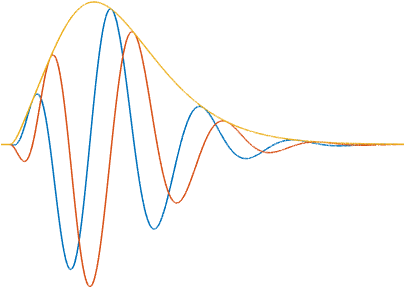
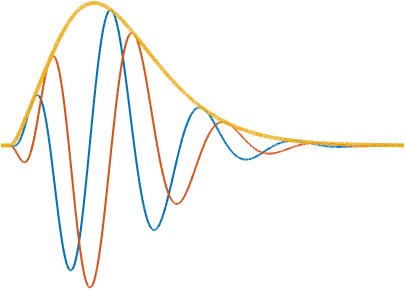
better line widths in Fig 1

diff --git a/figs/wavelets/gammatone.m b/figs/wavelets/gammatone.m
@@ -1,5 +1,5 @@
 nfo = 8;
-line_width = 1.5;
+line_width = 2;
 
 opts{1}.time.nFilters_per_octave = nfo;
 opts{1}.time.size = 2^19;
@@ -20,16 +20,27 @@ psi2_fts = display_bank(archs{2}.banks{1});
 psi1_ft = psi1_fts(:, 40);
 psi1_ift = ifftshift(ifft(psi1_ft));
 psi1_ift = psi1_ift((end/2) + (-300:1000));
-psi1 = [real(psi1_ift),imag(psi1_ift),abs(psi1_ift)];
+psi1 = [real(psi1_ift),imag(psi1_ift)];
+abspsi1 = abs(psi1_ift);
 
 psi2_ft = psi2_fts(:, 11);
 psi2_ift = ifftshift(ifft(psi2_ft));
 psi2_ift = psi2_ift((end/2) + (-3000:10000));
-psi2 = [real(psi2_ift),imag(psi2_ift),abs(psi2_ift)];
+psi2 = [real(psi2_ift),imag(psi2_ift)];
+abspsi2 = abs(psi2_ift);
 
+figure(1);
 plot(psi1, 'LineWidth', line_width)
 axis off
+hold on
+plot(abspsi1, 'LineWidth', 2 * line_width);
+hold off;
 export_fig -transparent gammatone_Q8.png
+
+figure(2);
 plot(psi2, 'LineWidth', line_width);
 axis off
+hold on
+plot(abspsi2, 'LineWidth', 2 * line_width);
+hold off;
 export_fig -transparent gammatone_Q1.png

diff --git a/paper/structureScene.tex b/paper/structureScene.tex
@@ -342,7 +342,6 @@ In short, early and late integration methods lie at opposite ends of the bias-ve
 Let $\mathbf{S}\boldsymbol{X}(\gamma,n)$ be a dataset, where the indices $\gamma$ and $n$ respectively denotes features and examples.
 It is commonly acknowledged that support vector machines should be trained on scaled features with null mean and unit variance, so as to avoid mismatch in numeric ranges.
 This operation may also help making the dataset linearly separable in feature space.
-\vl{Check this claim in DCASE 2013 time scattering features.}
 To standardize $\mathbf{S}\boldsymbol{X}(\gamma,n)$, we apply the affine transformation
 \begin{equation}
 \widetilde{\mathbf{S}}\boldsymbol{X}(\gamma, n) =
